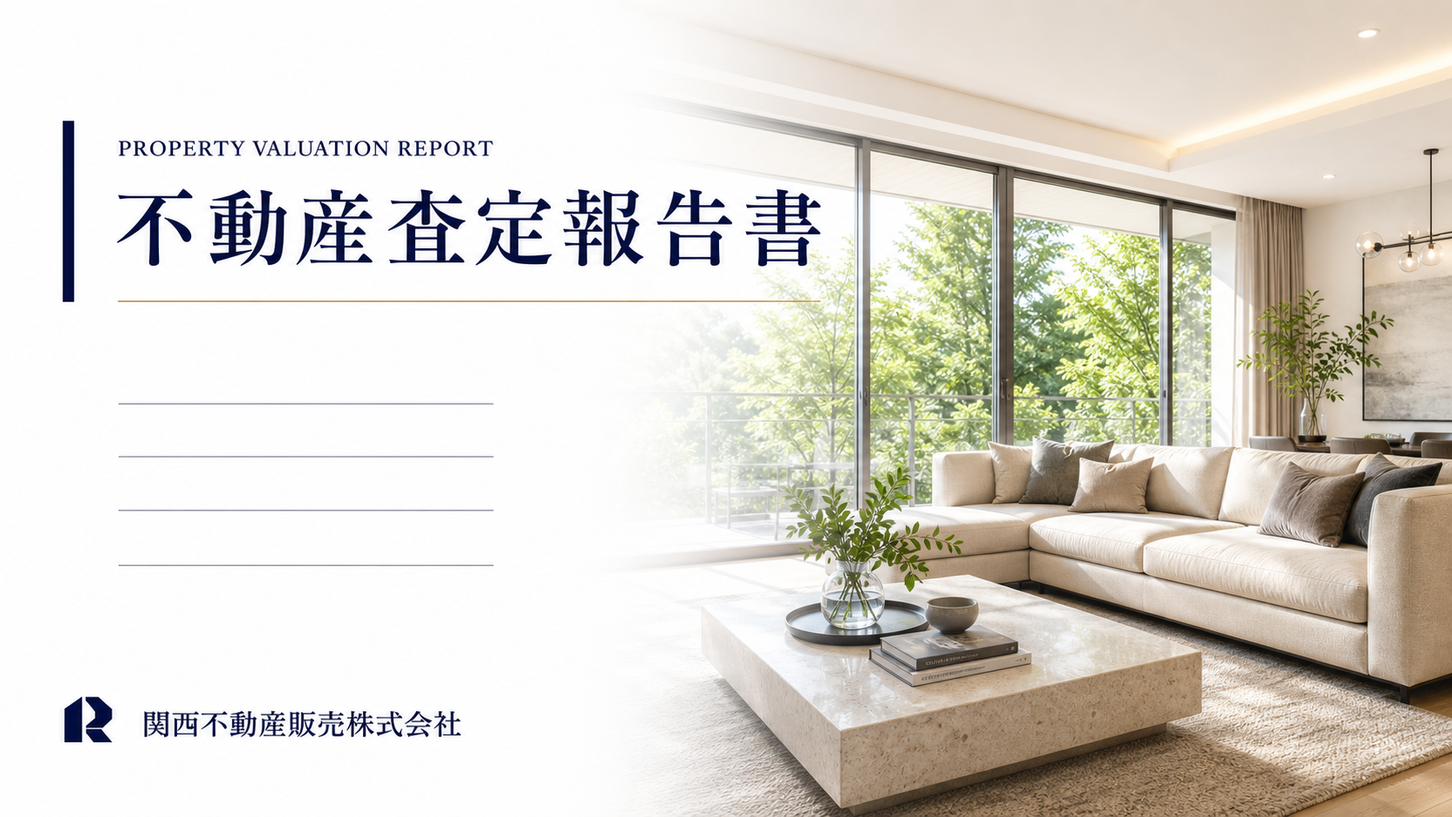
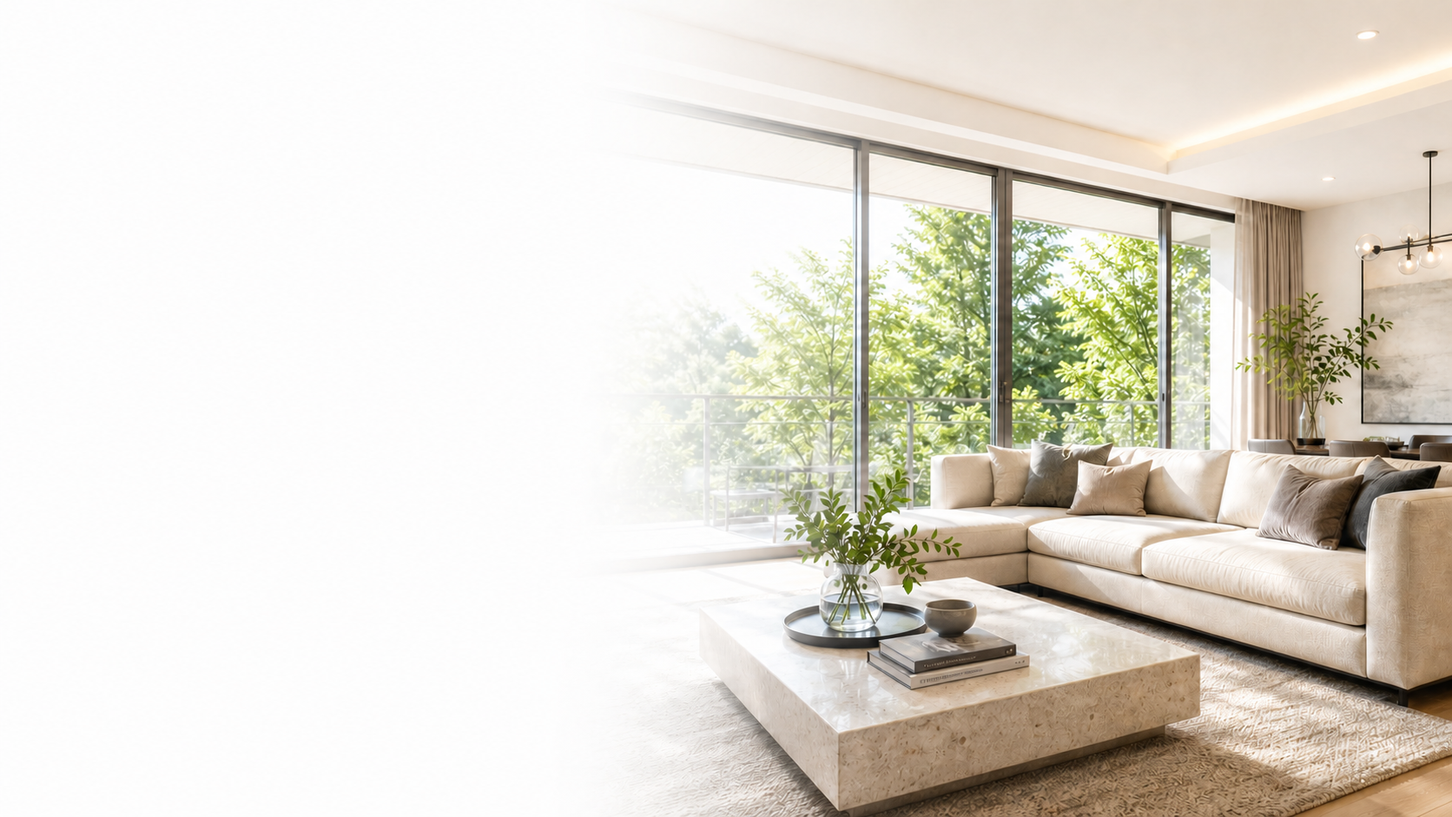
Fix report layout and editing controls

diff --git a/app/page.tsx b/app/page.tsx
@@ -187,8 +187,28 @@ function formatNumber(value: number, digits = 0) { return Number.isFinite(value)
 function ceilEnding80(value: number) { return value ? Math.ceil((value - 80) / 100) * 100 + 80 : 0; }
 function floorEnding80(value: number) { return value ? Math.max(80, Math.floor((value - 80) / 100) * 100 + 80) : 0; }
 
+function residualRateAtAge(age: number, life: number) {
+  const safeLife = Math.max(1, life);
+  const ratio = Math.max(0, age) / safeLife;
+  const curve = [[0, 1], [.2, .8], [.4, .6], [.6, .45], [.8, .3], [1, .2]];
+  if (ratio >= 1) return .2;
+  for (let i = 1; i < curve.length; i += 1) {
+    const [rightX, rightY] = curve[i];
+    const [leftX, leftY] = curve[i - 1];
+    if (ratio <= rightX) {
+      const progress = (ratio - leftX) / (rightX - leftX);
+      return leftY + (rightY - leftY) * progress;
+    }
+  }
+  return .2;
+}
+
 function Field({ label, value, onChange, type = "text", suffix, className = "" }: { label?: string; value: string | number; onChange: (value: string) => void; type?: string; suffix?: string; className?: string }) {
   return <label className={`field ${className}`}>{label && <span>{label}</span>}<span className="field-control"><input type={type} value={value} onChange={(event) => onChange(event.target.value)} />{suffix && <small>{suffix}</small>}</span></label>;
+}
+
+function DetailEditor({ icon, label, value, onChange, type = "text", secondary, options }: { icon: string; label: string; value: string | number; onChange: (value: string) => void; type?: string; secondary?: string; options?: { value: string; label: string }[] }) {
+  return <label className="detail-item"><i>{icon}</i><div><strong>{label}</strong>{options ? <select value={value} onChange={(event) => onChange(event.target.value)}>{options.map((option) => <option key={option.value} value={option.value}>{option.label}</option>)}</select> : <input type={type} value={value} onChange={(event) => onChange(event.target.value)} />}{secondary && <small>{secondary}</small>}</div></label>;
 }
 
 function PageHeader({ number, title, english, description }: { number: string; title: string; english: string; description: string }) {
@@ -215,8 +235,8 @@ function DepreciationChart({ age, life }: { age: number; life: number }) {
     ctx.font = '12px "Yu Gothic", sans-serif'; ctx.fillStyle = "#666";
     for (let pct = 0; pct <= 100; pct += 20) { const y = bottom - (pct / 100) * (bottom - top); ctx.fillText(`${pct}%`, 14, y + 4); ctx.strokeStyle = "#edf0f4"; ctx.beginPath(); ctx.moveTo(left, y); ctx.lineTo(right, y); ctx.stroke(); }
     const safeLife = Math.max(1, life); ctx.strokeStyle = "#071a43"; ctx.lineWidth = 2.5; ctx.beginPath();
-    for (let year = 0; year <= safeLife; year += 1) { const x = left + (year / safeLife) * (right - left); const pct = Math.max(0, 1 - year / safeLife); const y = bottom - pct * (bottom - top); if (year === 0) ctx.moveTo(x, y); else ctx.lineTo(x, y); }
-    ctx.stroke(); const pointAge = Math.min(safeLife, Math.max(0, age)); const pointRate = Math.max(0, 1 - pointAge / safeLife); const pointX = left + (pointAge / safeLife) * (right - left); const pointY = bottom - pointRate * (bottom - top);
+    for (let year = 0; year <= safeLife; year += 1) { const x = left + (year / safeLife) * (right - left); const pct = residualRateAtAge(year, safeLife); const y = bottom - pct * (bottom - top); if (year === 0) ctx.moveTo(x, y); else ctx.lineTo(x, y); }
+    ctx.stroke(); const pointAge = Math.min(safeLife, Math.max(0, age)); const pointRate = residualRateAtAge(age, safeLife); const pointX = left + (pointAge / safeLife) * (right - left); const pointY = bottom - pointRate * (bottom - top);
     ctx.strokeStyle = "#b17a16"; ctx.lineWidth = 1.5; ctx.beginPath(); ctx.moveTo(pointX, pointY); ctx.lineTo(pointX, bottom); ctx.stroke(); ctx.fillStyle = "#b17a16"; ctx.beginPath(); ctx.arc(pointX, pointY, 8, 0, Math.PI * 2); ctx.fill();
     ctx.font = 'bold 16px "Yu Mincho", serif'; ctx.fillText(`${Math.round(pointRate * 100)}%`, Math.min(pointX + 12, right - 45), pointY - 10); ctx.font = '12px "Yu Gothic", sans-serif';
     [0, 5, 10, 15, 20, 25, 30].filter((y) => y <= safeLife).forEach((year) => { const x = left + (year / safeLife) * (right - left); ctx.fillStyle = "#30343b"; ctx.fillText(year === 0 ? "新築" : `${year}年`, x - 12, bottom + 24); });
@@ -254,14 +274,44 @@ export default function Home() {
     return () => window.clearTimeout(timer);
   }, [type, propertyName, address, mansionName, appraisalDate, staff, landArea, buildingArea, exclusiveArea, layout, builtDate, transport, road, floors, other, structure, comparables, surroundLow, surroundHigh, unitManual, adjustLow, adjustHigh, buildingUnit, usefulLife, newBuildingPriceManual, appraisalLowManual, appraisalHighManual, recommendedManual, factors]);
 
-  const targetAge = yearsBetween(builtDate, appraisalDate); const residualRate = Math.max(0, Math.min(1, 1 - targetAge / Math.max(1, usefulLife))); const autoNewBuildingPrice = (buildingArea / TSUBO) * buildingUnit; const newBuildingPrice = newBuildingPriceManual || autoNewBuildingPrice; const buildingValue = type === "house" ? newBuildingPrice * residualRate : 0; const targetArea = type === "mansion" ? exclusiveArea / TSUBO : landArea / TSUBO; const autoAppraisalLow = Math.max(0, (surroundLow + adjustLow) * targetArea + buildingValue); const autoAppraisalHigh = Math.max(0, (surroundHigh + adjustHigh) * targetArea + buildingValue); const appraisalLow = appraisalLowManual || autoAppraisalLow; const appraisalHigh = appraisalHighManual || autoAppraisalHigh; const recommendedAuto = ceilEnding80(Math.max(appraisalLow, appraisalHigh) * 1.02); const recommended = recommendedManual || recommendedAuto; const challenge = floorEnding80(recommended * 1.05); const speed = floorEnding80(recommended * 0.95); const adjustedLow = surroundLow + adjustLow; const adjustedHigh = surroundHigh + adjustHigh;
+  const targetAge = yearsBetween(builtDate, appraisalDate); const residualRate = residualRateAtAge(targetAge, usefulLife); const autoNewBuildingPrice = (buildingArea / TSUBO) * buildingUnit; const newBuildingPrice = newBuildingPriceManual || autoNewBuildingPrice; const buildingValue = type === "house" ? newBuildingPrice * residualRate : 0; const targetArea = type === "mansion" ? exclusiveArea / TSUBO : landArea / TSUBO; const autoAppraisalLow = Math.max(0, (surroundLow + adjustLow) * targetArea + buildingValue); const autoAppraisalHigh = Math.max(0, (surroundHigh + adjustHigh) * targetArea + buildingValue); const appraisalLow = appraisalLowManual || autoAppraisalLow; const appraisalHigh = appraisalHighManual || autoAppraisalHigh; const recommendedAuto = ceilEnding80(Math.max(appraisalLow, appraisalHigh) * 1.02); const recommended = recommendedManual || recommendedAuto; const challenge = floorEnding80(recommended * 1.05); const speed = floorEnding80(recommended * 0.95); const adjustedLow = surroundLow + adjustLow; const adjustedHigh = surroundHigh + adjustHigh;
 
   function changeType(next: PropertyType) { setType(next); setFactors(defaultFactors[next]); setStructure(next === "mansion" ? "鉄筋コンクリート造" : "木造"); if (next === "house") { setBuildingUnit(66); setUsefulLife(25); } setUnitManual(false); setAppraisalLowManual(0); setAppraisalHighManual(0); setRecommendedManual(0); }
   function updateComp(id: number, key: keyof Comparable, value: string | number) { setComparables((current) => current.map((comp) => comp.id === id ? { ...comp, [key]: value } : comp)); }
+  function addComparable() { setComparables((current) => current.length >= 5 ? current : [...current, emptyComp(Math.max(...current.map((comp) => comp.id), 0) + 1)]); }
+  function removeComparable() { setComparables((current) => current.length <= 1 ? current : current.slice(0, -1)); }
   function importReins() { if (activeImport === null || !pasteText.trim()) return; const parsed = parseReins(pasteText, activeImport, type); setComparables((current) => current.map((comp) => comp.id === activeImport ? { ...comp, ...parsed } : comp)); setPasteText(""); setActiveImport(null); setUnitManual(false); }
   function updateFactor(side: "plus" | "minus", index: number, key: keyof Factor, value: string) { setFactors((current) => ({ ...current, [side]: current[side].map((factor, i) => i === index ? { ...factor, [key]: value } : factor) })); }
 
-  const detailItems = type === "land" ? [["所在地", address], ["種別", "土地（売地）"], ["土地面積", landArea ? `${formatNumber(landArea, 2)}㎡（${formatNumber(landArea / TSUBO, 2)}坪）` : ""], ["接道状況", road], ["交通", transport], ["その他", other]] : type === "mansion" ? [["所在地", address], ["マンション名", mansionName], ["専有面積", exclusiveArea ? `${formatNumber(exclusiveArea, 2)}㎡（${formatNumber(exclusiveArea / TSUBO, 2)}坪）` : ""], ["間取り", layout], ["築年月", formatDateJa(builtDate)], ["所在階・構造", floors || structure], ["交通", transport], ["その他", other]] : [["所在地", address], ["種別", "中古戸建て"], ["土地面積", landArea ? `${formatNumber(landArea, 2)}㎡（${formatNumber(landArea / TSUBO, 2)}坪）` : ""], ["建物面積", buildingArea ? `${formatNumber(buildingArea, 2)}㎡（${formatNumber(buildingArea / TSUBO, 2)}坪）` : ""], ["間取り", layout], ["築年月", formatDateJa(builtDate)], ["構造・階数", [structure, floors].filter(Boolean).join("・")], ["交通・接道", [transport, road].filter(Boolean).join("／")], ["その他", other]];
+  const structureOptions = ["木造", "軽量鉄骨造", "鉄骨造", "鉄筋コンクリート造", "鉄骨鉄筋コンクリート造", "その他"].map((item) => ({ value: item, label: item }));
+  const detailEditors = type === "land" ? [
+    <DetailEditor key="address" icon="⌖" label="所在地" value={address} onChange={setAddress} />,
+    <DetailEditor key="land" icon="▦" label="土地面積" type="number" value={landArea || ""} onChange={(value) => setLandArea(Number(value))} secondary={`${formatNumber(landArea / TSUBO, 2)}坪`} />,
+    <DetailEditor key="road" icon="▤" label="接道状況" value={road} onChange={setRoad} />,
+    <DetailEditor key="transport" icon="◎" label="最寄り駅・交通" value={transport} onChange={setTransport} />,
+    <DetailEditor key="other" icon="◇" label="その他" value={other} onChange={setOther} />,
+  ] : type === "mansion" ? [
+    <DetailEditor key="address" icon="⌖" label="所在地" value={address} onChange={setAddress} />,
+    <DetailEditor key="mansion" icon="⌂" label="マンション名" value={mansionName} onChange={setMansionName} />,
+    <DetailEditor key="exclusive" icon="▦" label="専有面積" type="number" value={exclusiveArea || ""} onChange={(value) => setExclusiveArea(Number(value))} secondary={`${formatNumber(exclusiveArea / TSUBO, 2)}坪`} />,
+    <DetailEditor key="layout" icon="▥" label="間取り" value={layout} onChange={setLayout} />,
+    <DetailEditor key="built" icon="▣" label="築年月" type="date" value={builtDate} onChange={setBuiltDate} />,
+    <DetailEditor key="floors" icon="◫" label="所在階・階数" value={floors} onChange={setFloors} />,
+    <DetailEditor key="structure" icon="▤" label="構造" value={structure} onChange={setStructure} options={structureOptions} />,
+    <DetailEditor key="transport" icon="◎" label="最寄り駅・交通" value={transport} onChange={setTransport} />,
+    <DetailEditor key="other" icon="◇" label="その他" value={other} onChange={setOther} />,
+  ] : [
+    <DetailEditor key="address" icon="⌖" label="所在地" value={address} onChange={setAddress} />,
+    <DetailEditor key="land" icon="▦" label="土地面積" type="number" value={landArea || ""} onChange={(value) => setLandArea(Number(value))} secondary={`${formatNumber(landArea / TSUBO, 2)}坪`} />,
+    <DetailEditor key="building" icon="▥" label="建物面積" type="number" value={buildingArea || ""} onChange={(value) => setBuildingArea(Number(value))} secondary={`${formatNumber(buildingArea / TSUBO, 2)}坪`} />,
+    <DetailEditor key="layout" icon="▤" label="間取り" value={layout} onChange={setLayout} />,
+    <DetailEditor key="built" icon="▣" label="築年月" type="date" value={builtDate} onChange={setBuiltDate} />,
+    <DetailEditor key="structure" icon="⌂" label="構造" value={structure} onChange={setStructure} options={structureOptions} />,
+    <DetailEditor key="floors" icon="◫" label="階数" value={floors} onChange={setFloors} />,
+    <DetailEditor key="transport" icon="◎" label="最寄り駅・交通" value={transport} onChange={setTransport} />,
+    <DetailEditor key="road" icon="▰" label="接道状況" value={road} onChange={setRoad} />,
+    <DetailEditor key="other" icon="◇" label="その他" value={other} onChange={setOther} />,
+  ];
 
   return <main>
     <section className="editor-toolbar no-print" aria-label="査定書の編集メニュー"><div className="toolbar-brand"><span className="brand-mark">K</span><div><strong>簡易査定書メーカー</strong><small>{saved ? "自動保存しました" : "入力内容はこの端末に自動保存"}</small></div></div><div className="type-switch" aria-label="物件種別">{(Object.keys(propertyLabels) as PropertyType[]).map((item) => <button key={item} className={type === item ? "active" : ""} onClick={() => changeType(item)}>{propertyLabels[item]}</button>)}</div><div className="toolbar-actions"><button className="ghost-button" onClick={() => window.scrollTo({ top: 0, behavior: "smooth" })}>表紙へ</button><button className="primary-button" onClick={() => window.print()}>印刷・PDF保存</button></div></section>
@@ -282,18 +332,24 @@ export default function Home() {
       </div>
     </section>
     <div className="report-stack">
-      <article className="report-page cover-page"><div className="cover-fields"><Field label="物件名" value={propertyName} onChange={setPropertyName} /><Field label="所在地" value={address} onChange={setAddress} />{type === "mansion" && <Field label="マンション名" value={mansionName} onChange={setMansionName} />}<Field label="査定日" type="date" value={appraisalDate} onChange={setAppraisalDate} /><Field label="担当者" value={staff} onChange={setStaff} /></div><p className="cover-message">市場動向・周辺成約事例をもとに、<br />現在の市場価値を分析しました。</p></article>
+      <article className="report-page cover-page">
+        <header className="cover-title"><p>PROPERTY VALUATION REPORT</p><h1>不動産査定報告書</h1><i /></header>
+        <div className="cover-fields"><Field label="物件名" value={propertyName} onChange={setPropertyName} /><Field label="所在地" value={address} onChange={setAddress} />{type === "mansion" && <Field label="マンション名" value={mansionName} onChange={setMansionName} />}<Field label="査定日" type="date" value={appraisalDate} onChange={setAppraisalDate} /><Field label="担当者" value={staff} onChange={setStaff} /></div>
+        <p className="cover-message">市場動向・周辺成約事例をもとに、<br />現在の市場価値を分析しました。</p>
+        <footer className="cover-company"><b>K</b><span>関西不動産販売株式会社</span></footer>
+      </article>
       <article className="report-page result-page">
         <PageHeader number="02" title="査定結果" english="VALUATION RESULT" description="周辺の市場動向や類似物件の成約事例をもとに、対象不動産の市場価値を算出しました。" /><div className="result-photo" />
         <section className="valuation-box"><div className="section-tab">査定価格 <small>（市場価値の目安）</small></div><div className="valuation-range"><Field value={Math.round(appraisalLow)} type="number" onChange={(v) => setAppraisalLowManual(Number(v))} suffix="万円" /><b>〜</b><Field value={Math.round(appraisalHigh)} type="number" onChange={(v) => setAppraisalHighManual(Number(v))} suffix="万円" /></div><p>現在の市場で取引されると想定される価格の幅を示しています。</p><div className="recommended-row"><span>推奨売出価格</span><Field value={Math.round(recommended)} type="number" onChange={(v) => setRecommendedManual(Number(v))} suffix="万円" /><p>競争力と成約までの期間を考慮した、最もバランスの良い売出価格です。</p></div><button className="mini-reset no-print" onClick={() => { setAppraisalLowManual(0); setAppraisalHighManual(0); setRecommendedManual(0); }}>自動計算に戻す</button></section>
-        <section className="property-details"><div className="section-heading"><span />査定対象物件の詳細<span /></div><div className="detail-grid">{detailItems.map(([label, value], index) => <div className="detail-item" key={`${label}-${index}`}><i>{["⌖", "⌂", "▦", "▥", "▤", "◫", "▣", "◎", "◇"][index % 9]}</i><div><strong>{label}</strong><span>{value || "—"}</span></div></div>)}</div></section>
+        <section className="property-details"><div className="section-heading"><span />査定対象物件の詳細（直接入力）<span /></div><div className="detail-grid">{detailEditors}</div></section>
         <div className="disclaimer-box"><span>!</span><p>上記査定価格は、{formatDateJa(appraisalDate)}時点の市場データを基に算出した目安です。実際の成約価格は、売却時期・市場動向・物件の状態・交渉条件等により変動します。</p></div>
       </article>
       <article className="report-page comps-page">
         <PageHeader number="03" title="周辺成約事例との比較" english="MARKET COMPARISON" description="対象物件と条件の近い周辺の成約事例を比較しました。" />
         <aside className="target-summary"><b>対象物件</b><p>所在地　：{address || "—"}</p><p>{type === "mansion" ? "専有面積" : "土地面積"}：<AreaValue value={type === "mansion" ? exclusiveArea : landArea} /></p>{type === "house" && <p>建物面積：<AreaValue value={buildingArea} /></p>}{type !== "land" && <p>間取り　：{layout || "—"}</p>}{type !== "land" && <p>築年月　：{formatDateJa(builtDate)}</p>}</aside>
         <p className="unit-lead">類似物件は <strong>坪単価 {formatNumber(surroundLow, 1)}〜{formatNumber(surroundHigh, 1)} 万円</strong> で成約しています。</p>
-        <section className="comparison-table-wrap"><table className="comparison-table"><thead><tr><th>事例</th>{comparables.map((comp) => <th key={comp.id}><span>事例 {comp.id}</span><button className="import-button no-print" onClick={() => setActiveImport(comp.id)}>REINS貼付</button></th>)}</tr></thead><tbody>
+        <div className="case-controls no-print"><span>事例数</span><button onClick={removeComparable} disabled={comparables.length <= 1}>−</button><strong>{comparables.length}件</strong><button onClick={addComparable} disabled={comparables.length >= 5}>＋</button><small>1〜5件まで調整できます</small></div>
+        <section className="comparison-table-wrap"><table className="comparison-table"><thead><tr><th>事例</th>{comparables.map((comp, index) => <th key={comp.id}><span>事例 {index + 1}</span><button className="import-button no-print" onClick={() => setActiveImport(comp.id)}>レインズ取込</button></th>)}</tr></thead><tbody>
           <tr><th>所在地</th>{comparables.map((comp) => <td key={comp.id}><input value={comp.address} onChange={(e) => updateComp(comp.id, "address", e.target.value)} placeholder="所在地" /></td>)}</tr>
           {type !== "mansion" && <tr><th>土地面積</th>{comparables.map((comp) => <td key={comp.id}><input type="number" value={comp.landArea || ""} onChange={(e) => updateComp(comp.id, "landArea", Number(e.target.value))} placeholder="0.00" /><small>㎡ / {formatNumber(comp.landArea / TSUBO, 2)}坪</small></td>)}</tr>}
           {type === "house" && <tr><th>建物面積</th>{comparables.map((comp) => <td key={comp.id}><input type="number" value={comp.buildingArea || ""} onChange={(e) => updateComp(comp.id, "buildingArea", Number(e.target.value))} placeholder="0.00" /><small>㎡ / {formatNumber(comp.buildingArea / TSUBO, 2)}坪</small></td>)}</tr>}

diff --git a/app/globals.css b/app/globals.css
@@ -57,12 +57,20 @@ button { cursor: pointer; }
 .report-stack { display: grid; gap: 44px; padding: 0 16px 80px; }
 .report-page { position: relative; width: min(1480px, calc(100vw - 32px)); aspect-ratio: 297 / 210; margin: 0 auto; overflow: hidden; color: var(--ink); background: var(--paper); box-shadow: 0 20px 55px rgba(21,39,68,.2), 0 2px 6px rgba(21,39,68,.1); border: 1px solid #cfd5df; }
 
-.cover-page { background: white url("/cover-report.png") center/cover no-repeat; }
-.cover-fields { position: absolute; top: 43.5%; left: 7.8%; width: 36%; padding: 4px 8px; display: grid; gap: 8px; background: rgba(255,255,255,.72); backdrop-filter: blur(4px); }
-.cover-fields .field { min-height: 43px; border-bottom: 1px solid rgba(7,26,67,.25); }
+.cover-page { background: white url("/cover-report.png") center/100% 100% no-repeat; }
+.cover-title { position: absolute; top: 10.5%; left: 5.2%; width: 56%; padding-left: 3.7%; }
+.cover-title::before { content: ""; position: absolute; top: 0; bottom: 0; left: 0; width: 10px; background: var(--navy); }
+.cover-title p { margin: 0 0 16px; font: 600 clamp(12px,1.55vw,23px) Georgia, serif; letter-spacing: .05em; }
+.cover-title h1 { margin: 0; white-space: nowrap; color: var(--navy); font-size: clamp(34px,5.15vw,76px); font-weight: 500; line-height: 1.05; letter-spacing: .07em; }
+.cover-title i { display: block; width: 100%; height: 1px; margin-top: 24px; background: var(--gold-light); }
+.cover-fields { position: absolute; top: 38.5%; left: 7.8%; width: 35%; padding: 7px; display: grid; gap: 7px; background: rgba(255,255,255,.76); backdrop-filter: blur(4px); }
+.cover-fields .field { min-height: 39px; }
 .cover-fields .field > span:first-child { width: 104px; padding: 7px 10px; color: white; text-align: center; letter-spacing: .12em; background: var(--navy); font: 500 clamp(10px,1.1vw,17px) "Yu Mincho", serif; }
-.cover-fields .field-control input { height: 37px; border: 0; border-radius: 0; background: rgba(238,246,255,.75); font: 500 clamp(11px,1.2vw,18px) "Yu Mincho", serif; }
-.cover-message { position: absolute; left: 4.7%; bottom: 18%; margin: 0; color: #9a6815; font-size: clamp(12px,1.35vw,21px); font-weight: 700; line-height: 1.65; letter-spacing: .08em; }
+.cover-fields .field-control input { height: 35px; border: 0; border-radius: 0; background: rgba(238,246,255,.82); font: 500 clamp(11px,1.2vw,18px) "Yu Mincho", serif; }
+.cover-message { position: absolute; left: 5.2%; bottom: 18.5%; margin: 0; color: #9a6815; font-size: clamp(12px,1.35vw,21px); font-weight: 700; line-height: 1.65; letter-spacing: .08em; }
+.cover-company { position: absolute; left: 5.2%; bottom: 7.5%; display: flex; align-items: center; gap: 17px; color: var(--navy); }
+.cover-company b { width: 44px; height: 44px; display: grid; place-items: center; border: 2px solid var(--navy); font: 700 24px Georgia, serif; }
+.cover-company span { font-size: clamp(13px,1.5vw,23px); font-weight: 700; letter-spacing: .04em; }
 
 .page-rail { position: absolute; z-index: 4; top: 0; left: 0; width: 8.4%; height: 21.5%; display: flex; flex-direction: column; align-items: center; padding-top: 4%; color: white; background: linear-gradient(140deg, #061a42, #092a59); }
 .page-rail strong { font: 400 clamp(24px,3.5vw,51px) Georgia, serif; letter-spacing: .04em; }
@@ -81,25 +89,28 @@ button { cursor: pointer; }
 .section-tab small { font-size: .75em; }
 .valuation-range { display: flex; align-items: center; gap: 12px; }
 .valuation-range .field { flex: 1; }
-.valuation-range input { height: auto; padding: 0 5px; border: 0; border-bottom: 1px dashed #c8a86b; border-radius: 0; color: var(--gold); background: transparent; font: 500 clamp(34px,5.2vw,80px) Georgia, serif; text-align: center; }
-.valuation-range .field-control small { color: var(--gold); font-size: clamp(14px,2vw,30px); font-family: "Yu Mincho", serif; }
+.valuation-range .field-control { display: grid; grid-template-columns: minmax(0, 1fr) auto; align-items: end; column-gap: 6px; }
+.valuation-range input { min-width: 0; height: auto; padding: 0 3px; border: 0; border-bottom: 1px dashed #c8a86b; border-radius: 0; color: var(--gold); background: transparent; font: 500 clamp(34px,5.2vw,80px) Georgia, serif; text-align: right; }
+.valuation-range .field-control small { margin: 0 0 11px; color: var(--gold); font-size: clamp(14px,2vw,30px); font-family: "Yu Mincho", serif; }
 .valuation-range > b { color: var(--gold); font-size: clamp(24px,3vw,45px); font-weight: 400; }
 .valuation-box > p { margin: 9px 1.7% 0; padding-bottom: 15px; border-bottom: 1px solid #ded6c6; font: 500 clamp(8px,.95vw,14px) "Yu Gothic", sans-serif; }
 .recommended-row { display: grid; grid-template-columns: 27% 43% 1fr; align-items: center; gap: 20px; margin-top: 18px; }
 .recommended-row > span { padding: 14px 10px; color: white; background: linear-gradient(100deg, #a56c10, #c29849); font-size: clamp(11px,1.4vw,21px); text-align: center; letter-spacing: .12em; }
-.recommended-row .field input { height: auto; padding: 0; border: 0; color: var(--gold); background: transparent; font: 500 clamp(28px,4vw,58px) Georgia, serif; text-align: right; }
-.recommended-row .field small { color: var(--gold); font-size: clamp(13px,1.6vw,24px); }
+.recommended-row .field-control { display: grid; grid-template-columns: minmax(0, 1fr) auto; align-items: end; column-gap: 5px; }
+.recommended-row .field input { min-width: 0; height: auto; padding: 0; border: 0; color: var(--gold); background: transparent; font: 500 clamp(28px,4vw,58px) Georgia, serif; text-align: right; }
+.recommended-row .field small { margin: 0 0 8px; color: var(--gold); font-size: clamp(13px,1.6vw,24px); }
 .recommended-row p { margin: 0; font: 600 clamp(7px,.75vw,11px)/1.7 "Yu Gothic", sans-serif; }
 .mini-reset { position: absolute; right: 14px; bottom: 8px; padding: 4px 8px; border: 1px solid #9bb9dd; border-radius: 3px; color: #375e8c; background: #f3f8ff; font: 700 10px "Yu Gothic", sans-serif; }
 .property-details { position: absolute; top: 62.8%; left: 3.2%; right: 3.2%; height: 29%; }
 .section-heading { display: grid; grid-template-columns: 1fr auto 1fr; align-items: center; gap: 26px; font-size: clamp(15px,1.85vw,28px); letter-spacing: .13em; }
 .section-heading span { height: 1px; background: var(--navy); }
-.detail-grid { margin-top: 18px; display: grid; grid-template-columns: repeat(3, 1fr); column-gap: 36px; row-gap: 15px; }
+.detail-grid { margin-top: 12px; display: grid; grid-template-columns: repeat(3, 1fr); column-gap: 28px; row-gap: 9px; }
 .detail-item { min-width: 0; display: flex; align-items: center; gap: 14px; font-family: "Yu Gothic", sans-serif; }
-.detail-item i { flex: 0 0 clamp(34px,3.8vw,56px); height: clamp(34px,3.8vw,56px); display: grid; place-items: center; border-radius: 50%; color: white; background: var(--navy); font-style: normal; font-size: clamp(15px,1.75vw,26px); }
+.detail-item i { flex: 0 0 clamp(30px,3.3vw,49px); height: clamp(30px,3.3vw,49px); display: grid; place-items: center; border-radius: 50%; color: white; background: var(--navy); font-style: normal; font-size: clamp(13px,1.55vw,23px); }
 .detail-item div { min-width: 0; display: grid; gap: 4px; }
 .detail-item strong { font-size: clamp(9px,1vw,15px); }
-.detail-item span { overflow: hidden; text-overflow: ellipsis; white-space: nowrap; font-size: clamp(8px,1vw,15px); }
+.detail-item input, .detail-item select { min-width: 0; width: 100%; height: 27px; padding: 3px 7px; border: 1px solid var(--edit-border); border-radius: 3px; background: var(--edit); font-size: clamp(8px,.9vw,13px); }
+.detail-item small { color: #596b83; font-size: clamp(7px,.72vw,10px); }
 .disclaimer-box { position: absolute; left: 3.2%; right: 3.2%; bottom: 2.2%; min-height: 6.6%; padding: 9px 20px; display: flex; align-items: center; gap: 17px; border: 1px solid #e1cda7; font: 500 clamp(7px,.8vw,12px)/1.6 "Yu Gothic", sans-serif; }
 .disclaimer-box span { flex: none; width: 32px; height: 32px; display: grid; place-items: center; border: 2px solid var(--gold); border-radius: 50%; color: var(--gold); font-weight: 800; }
 .disclaimer-box p { margin: 0; }
@@ -109,6 +120,11 @@ button { cursor: pointer; }
 .target-summary p { margin: 2px 0; }
 .unit-lead { position: absolute; top: 15.7%; left: 10.7%; margin: 0; font: 600 clamp(9px,1.1vw,16px) "Yu Gothic", sans-serif; }
 .unit-lead strong { color: var(--gold); font-size: 1.35em; letter-spacing: .07em; }
+.case-controls { position: absolute; top: 20%; left: 10.7%; display: flex; align-items: center; gap: 8px; font: 700 11px "Yu Gothic", sans-serif; }
+.case-controls button { width: 28px; height: 28px; border: 1px solid #a88645; border-radius: 50%; color: white; background: var(--navy); font-size: 17px; line-height: 1; }
+.case-controls button:disabled { opacity: .3; cursor: not-allowed; }
+.case-controls strong { min-width: 35px; color: var(--gold); text-align: center; }
+.case-controls small { color: #69778a; font-weight: 500; }
 .comparison-table-wrap { position: absolute; top: 25.3%; left: 2.4%; right: 2.4%; height: 49%; }
 .comparison-table { width: 100%; height: 100%; border-collapse: collapse; table-layout: fixed; font: 500 clamp(7px,.83vw,12px) "Yu Gothic", sans-serif; }
 .comparison-table th, .comparison-table td { border: 1px solid #ccd1d8; padding: 4px 7px; text-align: center; vertical-align: middle; }
@@ -120,7 +136,7 @@ button { cursor: pointer; }
 .comparison-table td small { display: block; margin-top: 2px; color: #58677c; font-size: .75em; }
 .comparison-table .unit-row td strong { display: inline-block; color: var(--gold); font: 600 clamp(13px,1.7vw,25px) Georgia, serif; }
 .comparison-table .unit-row td small { display: inline; margin-left: 4px; color: var(--gold); }
-.import-button { display: block; margin: 3px auto -1px; padding: 2px 6px; border: 1px solid #d9b977; border-radius: 2px; color: #fff; background: rgba(255,255,255,.12); font: 700 8px "Yu Gothic", sans-serif; }
+.import-button { display: block; margin: 4px auto -1px; padding: 4px 9px; border: 1px solid #dfbc72; border-radius: 3px; color: #fff; background: linear-gradient(110deg, #a56d11, #c39848); box-shadow: 0 2px 6px rgba(0,0,0,.18); font: 700 clamp(7px,.68vw,10px) "Yu Gothic", sans-serif; }
 .compact-settings td { padding: 2px 5px; }
 .compact-settings input { width: 40%; }
 .compact-settings td small { display: inline; margin: 0 3px; }
@@ -132,7 +148,7 @@ button { cursor: pointer; }
 .market-range-box > p { margin: 0; padding: 0 25px; font: 500 clamp(7px,.85vw,13px)/1.8 "Yu Gothic", sans-serif; }
 .page-note { position: absolute; bottom: 2.1%; left: 2.6%; font: 500 clamp(6px,.7vw,10px) "Yu Gothic", sans-serif; }
 
-.factor-columns { position: absolute; top: 21.3%; left: 2.5%; width: 60.5%; height: 52%; display: grid; grid-template-columns: 1fr 1fr; gap: 16px; }
+.factor-columns { position: absolute; top: 23%; left: 2.5%; width: 60.5%; height: 50.3%; display: grid; grid-template-columns: 1fr 1fr; gap: 16px; }
 .factor-column { border: 1px solid #d7d8dc; }
 .factor-column h3 { height: 48px; margin: 0; display: grid; place-items: center; color: white; background: var(--navy); font-size: clamp(11px,1.35vw,20px); font-weight: 500; letter-spacing: .08em; }
 .factor-column.minus h3 { background: linear-gradient(100deg, #986811, #bb8b30); }
@@ -170,24 +186,20 @@ button { cursor: pointer; }
 .overall-box p { margin: 5px 0 0; font: 600 clamp(8px,.85vw,13px)/1.65 "Yu Gothic", sans-serif; }
 .wide-note { position: absolute; left: 2.5%; right: 2.5%; bottom: 3%; padding: 12px 28px; border: 1px solid #dfcfb1; font: 500 clamp(7px,.78vw,12px) "Yu Gothic", sans-serif; }
 
-.building-page::before { content: ""; position: absolute; top: 0; left: 0; bottom: 0; width: 13.5%; background: linear-gradient(150deg, #061a42 0 47%, #fff 47.2%); }
-.building-page::after { content: ""; position: absolute; z-index: 1; top: 0; left: 12.7%; width: 8px; height: 51%; background: var(--gold); transform: skewX(-12deg); transform-origin: top; }
-.building-page .page-rail { width: 12%; background: transparent; }
-.building-page .page-header { left: 15.4%; top: 6.5%; }
-.building-flow { position: absolute; top: 23.5%; left: 11.8%; width: 36.2%; height: 59%; display: flex; flex-direction: column; align-items: center; gap: 7px; }
+.building-flow { position: absolute; top: 23.5%; left: 3.3%; width: 42.5%; height: 59%; display: flex; flex-direction: column; align-items: center; gap: 7px; }
 .building-step { position: relative; width: 100%; min-height: 74px; display: grid; grid-template-columns: 45% 1fr; border: 1px solid #d8d8d8; }
 .building-step > span { display: grid; place-items: center; padding: 8px; color: white; background: var(--navy); font-size: clamp(9px,1.1vw,16px); text-align: center; }
 .building-step .field, .building-step > strong, .building-step select { align-self: stretch; padding: 0 16px; }
 .building-step .field input { height: 100%; border: 0; color: var(--gold); background: transparent; font: 500 clamp(23px,3.2vw,48px) Georgia, serif; text-align: right; }
 .building-step .field small, .building-step > strong small { color: inherit; font-size: .48em; }
 .building-flow > b { color: #bd9349; line-height: .8; }
-.dual-step > strong { display: grid; place-items: center; color: var(--gold); font: 500 clamp(23px,3vw,44px) Georgia, serif; }
+.dual-step > strong { display: flex; align-items: center; justify-content: center; gap: 6px; color: var(--gold); font: 500 clamp(23px,3vw,44px) Georgia, serif; white-space: nowrap; }
 .structure-step select { border: 0; border-radius: 0; background: var(--edit); text-align: center; font-size: clamp(10px,1.1vw,16px); }
 .building-config { width: 100%; display: grid; grid-template-columns: 1fr 1fr; gap: 7px; }
 .building-config .field { padding: 6px; border: 1px dashed #9bb9dd; background: #f5f9ff; }
 .building-total { width: 100%; min-height: 104px; display: grid; grid-template-columns: 40% 1fr; color: white; background: linear-gradient(120deg, #061a42, #0c3569); }
 .building-total > span { display: grid; place-items: center; font-size: clamp(12px,1.35vw,20px); }
-.building-total > strong { display: grid; place-items: center; color: #d2a755; font: 500 clamp(30px,4vw,60px) Georgia, serif; }
+.building-total > strong { display: flex; align-items: center; justify-content: center; gap: 6px; color: #d2a755; font: 500 clamp(30px,4vw,60px) Georgia, serif; white-space: nowrap; }
 .building-total small { font: 500 .42em "Yu Mincho", serif; }
 .building-chart { position: absolute; top: 23.5%; right: 5.2%; width: 43%; height: 40%; }
 .building-chart h3 { margin: 0; padding: 10px; color: white; background: var(--navy); font-size: clamp(9px,1.1vw,16px); text-align: center; }
@@ -196,11 +208,11 @@ button { cursor: pointer; }
 .evaluation-points { position: absolute; right: 5.2%; bottom: 15.7%; width: 43%; height: 14.7%; padding: 17px 25px; display: grid; grid-template-columns: 150px 1fr 1fr; gap: 7px 15px; align-content: center; border: 1px solid #dcc9a8; font: 500 clamp(7px,.8vw,12px) "Yu Gothic", sans-serif; }
 .evaluation-points strong { grid-row: span 2; color: var(--gold); }
 .evaluation-points p { margin: 0; }
-.building-note { position: absolute; left: 11.8%; right: 5.2%; bottom: 3.7%; min-height: 9.5%; padding: 15px 24px; display: flex; align-items: center; gap: 20px; border: 1px solid #decaa7; font: 500 clamp(7px,.82vw,12px)/1.65 "Yu Gothic", sans-serif; }
+.building-note { position: absolute; left: 3.3%; right: 5.2%; bottom: 3.7%; min-height: 9.5%; padding: 15px 24px; display: flex; align-items: center; gap: 20px; border: 1px solid #decaa7; font: 500 clamp(7px,.82vw,12px)/1.65 "Yu Gothic", sans-serif; }
 .building-note b { width: 38px; height: 38px; display: grid; place-items: center; border-radius: 50%; color: white; background: var(--navy); font: italic 700 20px Georgia, serif; }
 .building-note p { margin: 0; }
 
-.price-strategy { position: absolute; top: 19.5%; left: 3.5%; width: 61%; height: 49%; }
+.price-strategy { position: absolute; top: 22.5%; left: 3.5%; width: 61%; height: 46%; }
 .price-strategy h3, .sales-flow h3 { margin: 0 0 15px; display: flex; align-items: center; gap: 18px; font-size: clamp(13px,1.6vw,24px); font-weight: 500; text-align: center; }
 .price-strategy h3::before, .price-strategy h3::after, .sales-flow h3::before, .sales-flow h3::after { content: ""; flex: 1; max-width: 48px; height: 1px; background: var(--navy); }
 .price-strategy > p { margin: 0 0 20px; font: 500 clamp(8px,.9vw,13px) "Yu Gothic", sans-serif; }
@@ -217,7 +229,7 @@ button { cursor: pointer; }
 .recommended-card h4 { background: linear-gradient(110deg, #a87314, #c19746); }
 .recommended-card > strong, .recommended-card li::before { color: var(--gold); }
 .recommended-card em { position: absolute; z-index: 2; top: 2px; right: 2px; color: white; font: 700 9px "Yu Gothic", sans-serif; transform: rotate(43deg); }
-.sales-flow { position: absolute; top: 19.5%; right: 3.5%; width: 27%; height: 50%; padding-left: 26px; border-left: 1px solid var(--navy); }
+.sales-flow { position: absolute; top: 22.5%; right: 3.5%; width: 27%; height: 47%; padding-left: 26px; border-left: 1px solid var(--navy); }
 .sales-flow h3 { margin-bottom: 10px; }
 .sales-flow h3 small { font-size: .65em; }
 .sales-step { height: 82px; display: grid; grid-template-columns: 52px 42px 1fr; align-items: center; border-bottom: 1px dotted #b4bdca; font-family: "Yu Gothic", sans-serif; }
